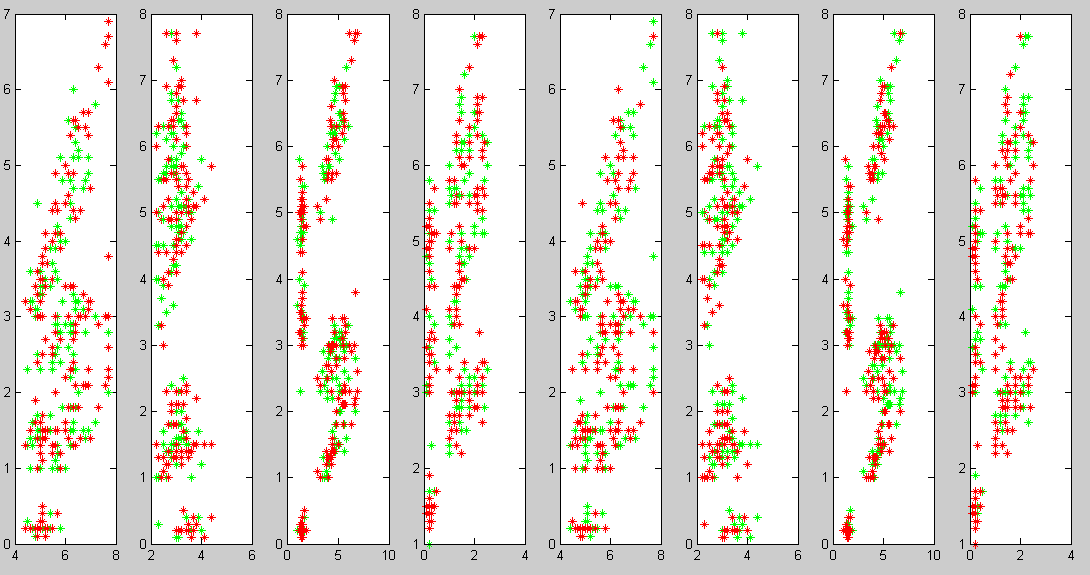
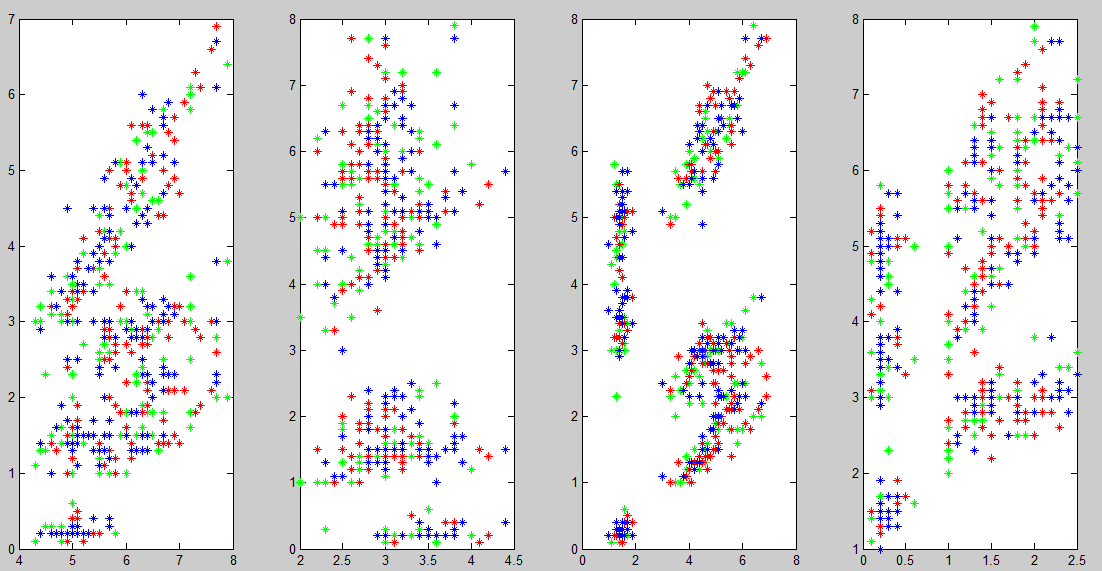
add all 3 types of fish
* reverting replacing fish loop

diff --git a/sort_fishes/sort_fish.m b/sort_fishes/sort_fish.m
@@ -22,28 +22,17 @@ function [labels]=sort_fish(fishes,features)
 	    end
 	end
 
-	for fi = 1:2
-		fi_1 = fi;
+	for fe_1 = 1:4
+		for fe_2 = 1:4
+			if ~ (fe_1 == fe_2)
 
-		if fi_1 == 1
-			fi_2 = 2;
-		else
-			fi_2 = 1;
-		end
+				subplot(1,4,fe_1);
 
-		for fe_1 = 1:4
-			for fe_2 = 1:4
-				if ~ (fe_1 == fe_2)
-					component = fe_1;
-					if fi_2 == 1
-						component = fe_1+4;
-					end
-					subplot(1,8,component);
-
-					plot(features(labels==fi_1,fe_1),features(labels==fi_1,fe_2),'*g');
-					hold on
-					plot(features(labels==fi_2,fe_1),features(labels==fi_2,fe_2),'*r');
-				end
+				plot(features(labels==1,fe_1),features(labels==1,fe_2),'*g');
+				hold on
+				plot(features(labels==2,fe_1),features(labels==2,fe_2),'*r');
+				hold on
+				plot(features(labels==3,fe_1),features(labels==3,fe_2),'*b');
 			end
 		end
 	end
